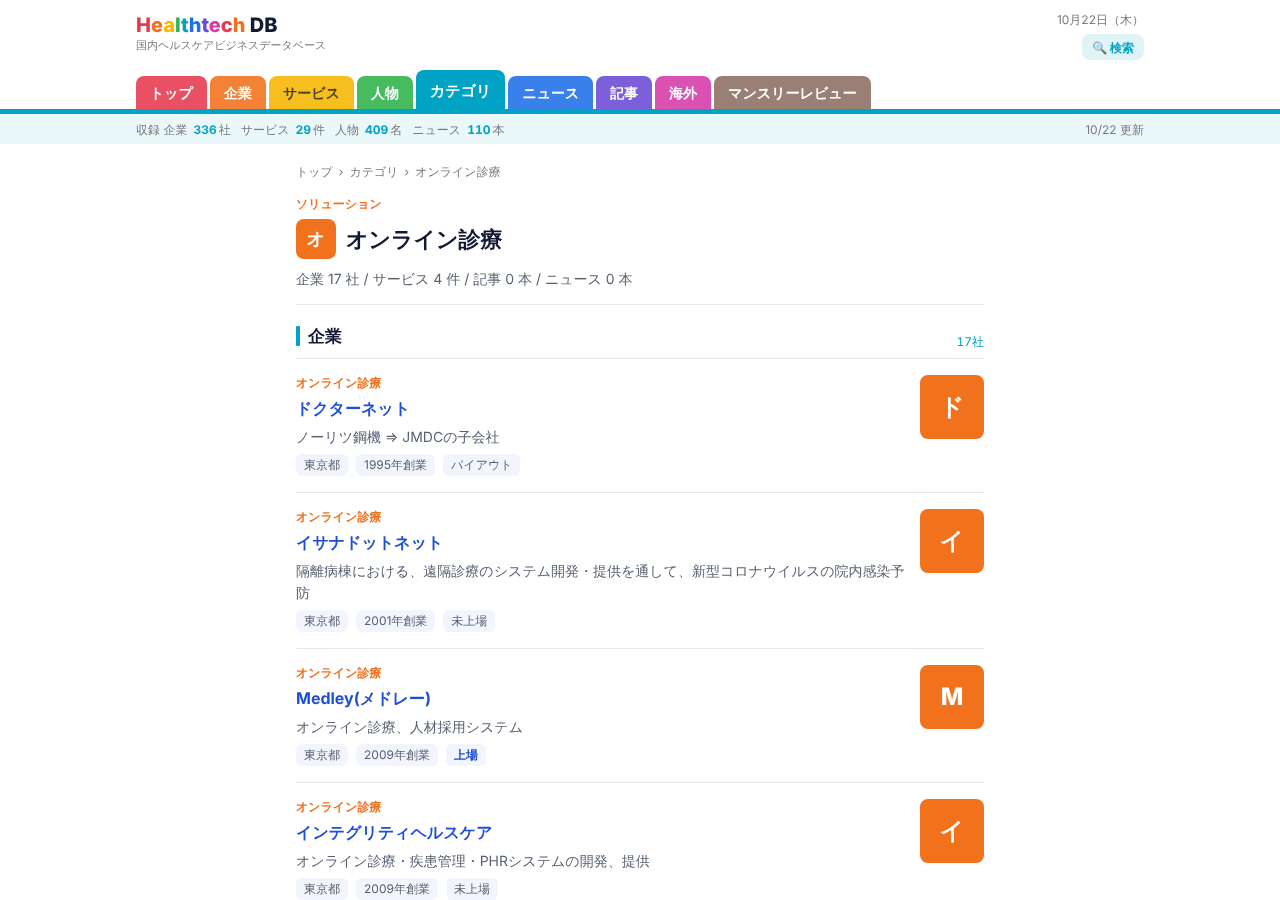
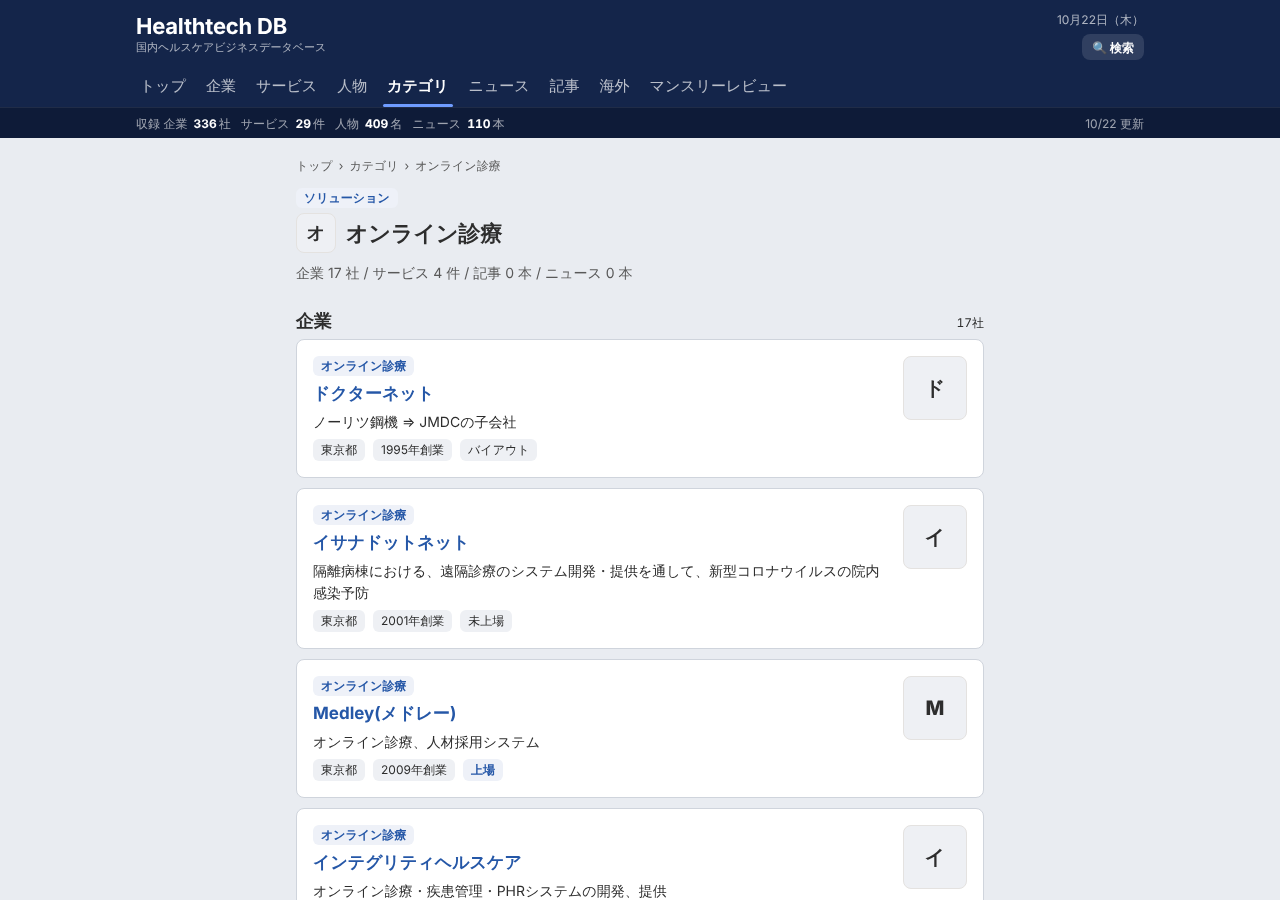
配色を STARTUP DB / Indeed 型に変更（紺のヘッダー、グレーの地、白カード、青1色）
Claude-Session: https://claude.ai/code/session_0119Ai9hj5RXsdgrEx7y6FYW

diff --git a/src/app/globals.css b/src/app/globals.css
@@ -13,9 +13,9 @@
   --disease: #d4357a;
   --solution: #1e4fd8;
   --domain: #17a2a2;
-  --page: #E8384F;
+  --page: #2557a7;
   --page-ink: #ffffff;
-  --page-text: #E8384F;
+  --page-text: #2557a7;
   --max: 1040px;
   --narrow: 720px;
 }
@@ -229,23 +229,113 @@ main.container { padding-top: 20px; padding-bottom: 64px; }
   .brand-name { font-size: 18px; line-height: 24px; }
 }
 
-/* ---------- スマートニュース風のカラータブ ---------- */
-.tabs { display: none; }
-.ctabs { margin-top: 10px; }
-.ctabs-in { display: flex; gap: 3px; overflow-x: auto; scrollbar-width: none; align-items: flex-end; }
-.ctabs-in::-webkit-scrollbar { display: none; }
-.ctab { flex: none; padding: 7px 14px 6px; border-radius: 8px 8px 0 0; background: var(--c); color: var(--ci); font-size: 14px; line-height: 20px; font-weight: 700; white-space: nowrap; opacity: 0.88; }
-.ctab:hover { text-decoration: none; opacity: 1; }
-.ctab[aria-current='page'] { opacity: 1; padding-top: 11px; padding-bottom: 8px; font-size: 15px; box-shadow: none; }
-.cband { height: 5px; background: var(--page); }
-.site-header { border-bottom: 0; }
-.search-pill { background: color-mix(in srgb, var(--page) 12%, var(--bg)); color: var(--page-text); }
-.brand-name { font-weight: 800; letter-spacing: 0; }
-.btn.primary { background: var(--page); border-color: var(--page); color: var(--page-ink); }
-.btn.primary:hover { filter: brightness(0.94); background: var(--page); border-color: var(--page); }
-.link-line::before { background: var(--page); }
-.stat b, .count-text b, .ticker-in b, .section-head .count { color: var(--page-text); }
-@media (max-width: 760px) {
-  .ctab { padding: 6px 11px 5px; font-size: 13px; }
-  .ctab[aria-current='page'] { padding-top: 9px; padding-bottom: 7px; font-size: 14px; }
+/* =====================================================================
+   STARTUP DB / Indeed 型（2026-10-22〜）。医師ビジネスマッチング MVP と同じトークン。
+   白いヘッダー、薄いグレーの地、白・1px枠・角丸8のカード、青1色、影はホバー時のみ。
+   ===================================================================== */
+:root {
+  --bg: #f5f6f8; --card: #ffffff; --surface: #f3f2f1; --fg: #2d2d2d; --muted: #595959; --muted-2: #595959;
+  --line: #d4d2d0; --line-2: #e4e2e0;
+  --brand: #2557a7; --brand-dark: #164081; --brand-fg: #ffffff; --brand-soft: #eef1f8;
+  --accent: var(--brand); --accent-ink: var(--brand-fg); --accent-hover: var(--brand-dark); --up: var(--brand);
+  --page: var(--brand); --page-ink: var(--brand-fg); --page-text: var(--brand);
+  --shadow-hover: 0 2px 8px rgba(45, 45, 45, 0.12);
 }
+@media (prefers-color-scheme: dark) {
+  :root:not([data-theme='light']) {
+    --bg: #1b1b1b; --card: #242424; --surface: #2e2e2e; --fg: #ededed; --muted: #a8a8a8; --muted-2: #a8a8a8;
+    --line: #444444; --line-2: #383838;
+    --brand: #8ab0f0; --brand-dark: #a9c5f5; --brand-fg: #101828; --brand-soft: #243245;
+    --shadow-hover: 0 2px 8px rgba(0, 0, 0, 0.5);
+  }
+}
+:root[data-theme='dark'] {
+  --bg: #1b1b1b; --card: #242424; --surface: #2e2e2e; --fg: #ededed; --muted: #a8a8a8; --muted-2: #a8a8a8;
+  --line: #444444; --line-2: #383838;
+  --brand: #8ab0f0; --brand-dark: #a9c5f5; --brand-fg: #101828; --brand-soft: #243245;
+  --shadow-hover: 0 2px 8px rgba(0, 0, 0, 0.5);
+}
+body { font-size: 15px; }
+/* ヘッダー: 白・下線のみ。ブランド名は青太字 */
+.site-header { background: var(--card); border-bottom: 1px solid var(--line); }
+.brand-name { color: var(--brand); font-size: 22px; line-height: 28px; font-weight: 700; letter-spacing: -0.01em; }
+.tab[aria-current='page'] { color: var(--brand); }
+.tab[aria-current='page']::after { background: var(--brand); }
+.ticker { background: var(--surface); border-top: 1px solid var(--line-2); }
+.ticker-in b { color: var(--fg); }
+.search-pill { background: var(--brand-soft); color: var(--brand); }
+/* 見出し: 縦棒をやめ、文字だけ（Indeed 型） */
+.section-head h2 { font-size: 18px; }
+.section-head h2::before { display: none; }
+.section-head .count, .count-text b, .stat b { color: var(--fg); }
+.page-head { border-bottom: 0; padding-bottom: 6px; }
+.page-head .kicker { background: none; color: var(--muted); padding: 0; font-weight: 500; }
+/* 一覧: 白・1px枠・角丸8のカード、間隔10px */
+.rows, .rows.bare { border-top: 0; display: flex; flex-direction: column; gap: 10px; }
+.item, .feature { background: var(--card); border: 1px solid var(--line); border-radius: 8px; padding: 16px; transition: box-shadow 0.15s, border-color 0.15s; }
+.item:hover, .feature:hover { box-shadow: var(--shadow-hover); border-color: var(--muted); }
+.feature { margin-bottom: 10px; }
+.item .title, .feature .title { color: var(--brand); font-size: 17px; }
+.item .title.ink, .feature .title { color: var(--brand); }
+.item .title:hover, .feature .title:hover { text-decoration: underline; }
+.item .desc { color: var(--fg); }
+.quote { border-left-color: var(--line); }
+/* 分類ラベル: 薄い青地の小タグ */
+.label { background: var(--brand-soft); color: var(--brand) !important; padding: 2px 8px; border-radius: 6px; font-weight: 700; }
+.tag { background: var(--surface); color: var(--fg); border-radius: 6px; font-size: 12px; }
+.tag.listed { background: var(--brand-soft); color: var(--brand); }
+/* 頭文字タイル: グレーの四角（ロゴ枠） */
+.tile { background: var(--surface) !important; color: var(--fg) !important; border: 1px solid var(--line-2); border-radius: 8px; font-size: 20px; }
+.tile.wide { color: var(--muted) !important; }
+/* 検索・入力 */
+.searchbar .in, .filterbar input, .filterbar select { background: var(--card); border-color: var(--line); }
+.searchbar .in:focus-within { border-color: var(--brand); box-shadow: 0 0 0 2px var(--brand-soft); }
+.btn { background: var(--card); }
+.btn:hover { background: var(--surface); }
+.btn.primary { background: var(--brand); border-color: var(--brand); color: var(--brand-fg); }
+.btn.primary:hover { background: var(--brand-dark); border-color: var(--brand-dark); filter: none; }
+/* カテゴリ・詳細の箱 */
+.cat-cols { background: var(--card); border: 1px solid var(--line); border-radius: 8px; padding: 4px 16px 8px; }
+.cat-link { color: var(--brand); border-bottom-color: var(--line-2); }
+.cat-link::before { display: none; }
+.side-box { background: var(--card); }
+.notice { background: var(--brand-soft); color: var(--fg); }
+.link-line { border-bottom: 0; }
+.link-line::before { background: var(--brand); }
+.people { background: var(--card); border: 1px solid var(--line); border-radius: 8px; padding: 0 16px; border-top: 1px solid var(--line); }
+.prose { background: var(--card); border: 1px solid var(--line); border-radius: 8px; padding: 24px; margin-top: 12px; }
+.prose h2::before { display: none; }
+.prose blockquote { border-left-color: var(--line); }
+.site-footer { background: var(--card); }
+.tabbar { background: var(--card); }
+.tabbar a[aria-current='page'] { color: var(--brand); }
+@media (max-width: 560px) { .prose { padding: 16px; } }
+
+/* 「明るすぎる」への対応: STARTUP DB のような紺のヘッダーと、少し沈んだ地 */
+:root {
+  --navy: #14254a;
+  --navy-2: #0e1b38;
+  --bg: #e9ecf1;
+  --line: #cfd4dc;
+  --surface: #eef0f4;
+}
+@media (prefers-color-scheme: dark) {
+  :root:not([data-theme='light']) { --navy: #0f1a33; --navy-2: #0a1226; --bg: #15171b; --surface: #2a2d33; --line: #3a3f48; }
+}
+:root[data-theme='dark'] { --navy: #0f1a33; --navy-2: #0a1226; --bg: #15171b; --surface: #2a2d33; --line: #3a3f48; }
+.site-header { background: var(--navy); border-bottom: 0; }
+.brand-name { color: #ffffff; }
+.brand-sub, .mast-date { color: rgba(255, 255, 255, 0.65); }
+.search-pill { background: rgba(255, 255, 255, 0.12); color: #ffffff; }
+.search-pill:hover { background: rgba(255, 255, 255, 0.2); }
+.tab { color: rgba(255, 255, 255, 0.7); }
+.tab:hover { color: #ffffff; }
+.tab[aria-current='page'] { color: #ffffff; }
+.tab[aria-current='page']::after { background: #6f9cff; }
+.ticker { background: var(--navy-2); border-top: 1px solid rgba(255, 255, 255, 0.08); }
+.ticker-in, .ticker-in span { color: rgba(255, 255, 255, 0.6); }
+.ticker-in b { color: #ffffff; }
+.site-footer { background: var(--navy); color: rgba(255, 255, 255, 0.6); border-top: 0; }
+.site-footer h4 { color: #ffffff; }
+.site-footer a:hover { color: #ffffff; }
+.tile.wide { aspect-ratio: 5 / 1; }

diff --git a/src/components/Header.tsx b/src/components/Header.tsx
@@ -2,7 +2,7 @@
 import Link from 'next/link';
 import { usePathname } from 'next/navigation';
 import { BASE_PATH } from '@/lib/base';
-import { SEARCH_COLOR, TABS, tabFor } from '@/lib/colors';
+import { TABS, tabFor } from '@/lib/colors';
 
 const WD = ['日', '月', '火', '水', '木', '金', '土'];
 
@@ -18,20 +18,16 @@ export function useActive() {
 export function Header({ stats, updated }: { stats: { companies: number; services: number; people: number; news: number }; updated: string }) {
   const path = useCurrentPath();
   const active = tabFor(path);
-  const page = active ?? SEARCH_COLOR;
   const d = new Date(updated || Date.now());
   const today = `${d.getMonth() + 1}月${d.getDate()}日（${WD[d.getDay()]}）`;
   return (
     <>
-      {/* 選択中のタブの色をページ全体（見出しの縦棒など）に渡す */}
-      <style>{`:root{--page:${page.color};--page-ink:${page.ink};--page-text:${page.color === '#F5B700' ? '#A87400' : page.color}}`}</style>
+      
       <header className="site-header">
         <div className="container">
           <div className="masthead">
             <Link href="/" className="brand" aria-label="Healthtech DB トップ">
-              <span className="brand-name">
-                <span style={{ color: '#E8384F' }}>H</span><span style={{ color: '#F2711C' }}>e</span><span style={{ color: '#F5B700' }}>a</span><span style={{ color: '#2DB34A' }}>l</span><span style={{ color: '#00A3C4' }}>t</span><span style={{ color: '#1E6FE8' }}>h</span><span style={{ color: '#6C4AD8' }}>t</span><span style={{ color: '#D63AA8' }}>e</span><span style={{ color: '#E8384F' }}>c</span><span style={{ color: '#F2711C' }}>h</span> DB
-              </span>
+              <span className="brand-name">Healthtech DB</span>
               <span className="brand-sub">国内ヘルスケアビジネスデータベース</span>
             </Link>
             <div className="mast-right">
@@ -40,22 +36,15 @@ export function Header({ stats, updated }: { stats: { companies: number; service
             </div>
           </div>
         </div>
-        <nav className="ctabs" aria-label="メイン">
-          <div className="container ctabs-in">
+        <div className="container">
+          <nav className="tabs" aria-label="メイン">
             {TABS.map((t) => (
-              <Link
-                key={t.href}
-                href={t.href}
-                className="ctab"
-                aria-current={active?.href === t.href ? 'page' : undefined}
-                style={{ ['--c' as string]: t.color, ['--ci' as string]: t.ink }}
-              >
+              <Link key={t.href} href={t.href} className="tab" aria-current={active?.href === t.href ? 'page' : undefined}>
                 {t.label}
               </Link>
             ))}
-          </div>
-        </nav>
-        <div className="cband" />
+          </nav>
+        </div>
         <div className="ticker">
           <div className="container ticker-in">
             <span>

diff --git a/src/lib/colors.ts b/src/lib/colors.ts
@@ -1,31 +1,30 @@
 /**
- * スマートニュース風のカラフルな配色。
- * タブ（ページ）ごとに色を持ち、選択中のタブ色がタブ下の帯・セクション見出しの縦棒に出る。
- * カテゴリにも 1 つずつ色を割り当て、ラベルの文字色とタイルの塗りに使う。
+ * 配色: STARTUP DB / Indeed 型。基調色は青1色（Indeed ブルー #2557A7）。
+ * タブ・カテゴリに個別の色は持たせない（2026-10-22 加藤さんの依頼でカラフル配色から変更）。
+ * 色の実体は globals.css の CSS 変数（--brand 等）。ここでは変数名を返す。
  */
 export type TabDef = { href: string; label: string; color: string; ink: string };
 
+const B = 'var(--brand)';
+const BI = 'var(--brand-fg)';
+
 export const TABS: TabDef[] = [
-  { href: '/', label: 'トップ', color: '#E8384F', ink: '#FFFFFF' },
-  { href: '/companies/', label: '企業', color: '#F2711C', ink: '#FFFFFF' },
-  { href: '/services/', label: 'サービス', color: '#F5B700', ink: '#3A2A00' },
-  { href: '/talents/', label: '人物', color: '#2DB34A', ink: '#FFFFFF' },
-  { href: '/categories/', label: 'カテゴリ', color: '#00A3C4', ink: '#FFFFFF' },
-  { href: '/news/', label: 'ニュース', color: '#1E6FE8', ink: '#FFFFFF' },
-  { href: '/articles/', label: '記事', color: '#6C4AD8', ink: '#FFFFFF' },
-  { href: '/global/', label: '海外', color: '#D63AA8', ink: '#FFFFFF' },
-  { href: '/webinars/', label: 'マンスリーレビュー', color: '#8D6E63', ink: '#FFFFFF' },
+  { href: '/', label: 'トップ', color: B, ink: BI },
+  { href: '/companies/', label: '企業', color: B, ink: BI },
+  { href: '/services/', label: 'サービス', color: B, ink: BI },
+  { href: '/talents/', label: '人物', color: B, ink: BI },
+  { href: '/categories/', label: 'カテゴリ', color: B, ink: BI },
+  { href: '/news/', label: 'ニュース', color: B, ink: BI },
+  { href: '/articles/', label: '記事', color: B, ink: BI },
+  { href: '/global/', label: '海外', color: B, ink: BI },
+  { href: '/webinars/', label: 'マンスリーレビュー', color: B, ink: BI },
 ];
 
-/** 検索など、タブに無いページの色 */
-export const SEARCH_COLOR = { color: '#1E6FE8', ink: '#FFFFFF' };
+export const SEARCH_COLOR = { color: B, ink: BI };
 
 export function tabFor(path: string): TabDef | undefined {
   return [...TABS].sort((a, b) => b.href.length - a.href.length).find((t) => (t.href === '/' ? path === '/' : path.startsWith(t.href)));
 }
 
-/** カテゴリ用の 14 色（白文字が読める濃さ） */
-export const CATEGORY_PALETTE = [
-  '#E8384F', '#F2711C', '#D99A00', '#2DB34A', '#00A3C4', '#1E6FE8', '#6C4AD8',
-  '#D63AA8', '#0F9D8A', '#C2410C', '#4F7CFF', '#9C27B0', '#7CB342', '#E91E63',
-];
+/** カテゴリ色。青1色に統一 */
+export const CATEGORY_PALETTE = [B];

diff --git a/src/components/CompanyFilter.tsx b/src/components/CompanyFilter.tsx
@@ -47,12 +47,11 @@ export function CompanyFilter({ companies, categories, initialCategory = '' }: {
       <p className="count-text" style={{ margin: '0 0 4px' }}><b>{hit.length}</b> 社が該当</p>
       <div className="rows">
         {hit.slice(0, shown).map((c) => {
-          const color = catOf[c.categories[0]]?.color ?? '#1E6FE8';
-          return (
+                    return (
             <article className="item" key={c.id}>
               <div className="body">
                 <span className="labels">
-                  {c.categories.map((s) => <Link key={s} href={`/categories/${s}/`} className="label" style={{ color: catOf[s]?.color }}>{catOf[s]?.name ?? s}</Link>)}
+                  {c.categories.map((s) => <Link key={s} href={`/categories/${s}/`} className="label">{catOf[s]?.name ?? s}</Link>)}
                 </span>
                 <Link href={`/companies/${c.id}/`} className="title">{c.name}</Link>
                 {c.description && <p className="desc">{c.description}</p>}
@@ -62,7 +61,7 @@ export function CompanyFilter({ companies, categories, initialCategory = '' }: {
                   <span className={`tag ${c.exit === '上場' ? 'listed' : ''}`}>{c.exit}</span>
                 </div>
               </div>
-              <span className="tile" style={{ background: color }} aria-hidden="true">{initialOf(c.name)}</span>
+              <span className="tile" aria-hidden="true">{initialOf(c.name)}</span>
             </article>
           );
         })}

diff --git a/src/components/TabBar.tsx b/src/components/TabBar.tsx
@@ -1,7 +1,6 @@
 'use client';
 import Link from 'next/link';
 import { useActive } from './Header';
-import { TABS } from '@/lib/colors';
 
 const I = {
   home: <path d="M3 11 12 3l9 8v10a1 1 0 0 1-1 1h-5v-7H9v7H4a1 1 0 0 1-1-1z" />,
@@ -9,7 +8,6 @@ const I = {
   search: (<><circle cx="11" cy="11" r="7" /><path d="m20 20-3.5-3.5" /></>),
   news: <path d="M4 5h13v14H6a2 2 0 0 1-2-2zM17 9h3v8a2 2 0 0 1-2 2M8 9h5M8 13h5" />,
 };
-const colorOf = (href: string) => TABS.find((t) => t.href === href)?.color ?? '#1E6FE8';
 
 export function TabBar() {
   const isActive = useActive();
@@ -19,7 +17,7 @@ export function TabBar() {
       {items.map(([href, label, icon]) => {
         const on = href === '/search/' ? false : isActive(href);
         return (
-          <Link key={href} href={href} aria-current={on ? 'page' : undefined} style={on ? { color: colorOf(href) } : undefined}>
+          <Link key={href} href={href} aria-current={on ? 'page' : undefined} >
             <svg viewBox="0 0 24 24" fill="none" stroke="currentColor" strokeWidth="1.8" strokeLinecap="round" strokeLinejoin="round" aria-hidden="true">{I[icon]}</svg>
             {label}
           </Link>

diff --git a/src/app/categories/[slug]/page.tsx b/src/app/categories/[slug]/page.tsx
@@ -26,8 +26,8 @@ export default async function CategoryPage({ params }: { params: Promise<{ slug:
     <div className="narrow">
       <nav className="breadcrumb" aria-label="パンくず"><Link href="/">トップ</Link>›<Link href="/categories/">カテゴリ</Link>›<span>{c.name}</span></nav>
       <div className="page-head">
-        <span className="label" style={{ color: c.color }}>{c.groupLabel}</span>
-        <h1 style={{ display: 'flex', alignItems: 'center', gap: 10 }}><span className="tile" style={{ background: c.color, width: 40, height: 40, fontSize: 18 }} aria-hidden="true">{c.name.slice(0, 1)}</span>{c.name}</h1>
+        <span className="label">{c.groupLabel}</span>
+        <h1 style={{ display: 'flex', alignItems: 'center', gap: 10 }}><span className="tile" style={{ width: 40, height: 40, fontSize: 18 }} aria-hidden="true">{c.name.slice(0, 1)}</span>{c.name}</h1>
         <p className="lead">企業 {companies.length} 社 / サービス {services.length} 件 / 記事 {articles.length} 本 / ニュース {news.length} 本</p>
       </div>
       {articles.length > 0 && (

diff --git a/src/app/companies/[id]/page.tsx b/src/app/companies/[id]/page.tsx
@@ -83,7 +83,7 @@ export default async function CompanyPage({ params }: { params: Promise<{ id: st
                 {services.map((s) => (
                   <article className="item" key={s.id}>
                     <div className="body">
-                      <Link href={`/categories/${s.category}/`} className="label" style={{ color: getCategory(s.category)?.color }}>{categoryName(s.category)}</Link>
+                      <Link href={`/categories/${s.category}/`} className="label">{categoryName(s.category)}</Link>
                       <Link href={`/services/${s.id}/`} className="title">{s.name}</Link>
                       <p className="desc">{s.description}</p>
                       <div className="meta">{s.startedYear && <span className="tag">{s.startedYear}年開始</span>}<span className="tag">{s.status}</span></div>

diff --git a/src/components/Tile.tsx b/src/components/Tile.tsx
@@ -1,7 +1,7 @@
-/** ロゴ・画像が無いときの代替タイル。分類色で塗り、白文字で頭文字や分類名を出す */
-export function Tile({ text, color = '#1E6FE8', size = 'md', kicker }: { text: string; color?: string; size?: 'md' | 'lg' | 'wide'; kicker?: string }) {
+/** ロゴが無いときの代替タイル（Indeed の企業ロゴ枠のようなグレーの四角に頭文字） */
+export function Tile({ text, size = 'md', kicker }: { text: string; color?: string; size?: 'md' | 'lg' | 'wide'; kicker?: string }) {
   return (
-    <span className={`tile ${size === 'md' ? '' : size}`} style={{ background: color }} aria-hidden="true">
+    <span className={`tile ${size === 'md' ? '' : size}`} aria-hidden="true">
       {kicker && <small>{kicker}</small>}
       {text}
     </span>

diff --git a/src/app/talents/[id]/page.tsx b/src/app/talents/[id]/page.tsx
@@ -23,7 +23,7 @@ export default async function TalentPage({ params }: { params: Promise<{ id: str
     <div className="narrow">
       <nav className="breadcrumb" aria-label="パンくず"><Link href="/">トップ</Link>›<Link href="/talents/">人物</Link>›<span>{p.name}</span></nav>
       <div className="page-head" style={{ display: 'flex', gap: 16, alignItems: 'center' }}>
-        <span className="tile" style={{ borderRadius: '50%', background: '#2DB34A' }} aria-hidden="true">{p.name.slice(0, 1)}</span>
+        <span className="tile" style={{ borderRadius: '50%' }} aria-hidden="true">{p.name.slice(0, 1)}</span>
         <div>
           <h1>{p.name}</h1>
           <p className="lead" style={{ marginTop: 2 }}>{p.roles.map((r) => `${r.companyName} ${r.title}`).join(' / ')}</p>

diff --git a/src/app/services/[id]/page.tsx b/src/app/services/[id]/page.tsx
@@ -22,7 +22,7 @@ export default async function ServicePage({ params }: { params: Promise<{ id: st
     <>
       <nav className="breadcrumb" aria-label="パンくず"><Link href="/">トップ</Link>›<Link href="/services/">サービス</Link>›<span>{s.name}</span></nav>
       <div className="page-head">
-        <Link href={`/categories/${s.category}/`} className="label" style={{ color: getCategory(s.category)?.color }}>{categoryName(s.category)}</Link>
+        <Link href={`/categories/${s.category}/`} className="label">{categoryName(s.category)}</Link>
         <h1>{s.name}</h1>
         <p className="lead">{s.description}</p>
       </div>

diff --git a/src/app/services/page.tsx b/src/app/services/page.tsx
@@ -18,7 +18,7 @@ export default function ServicesPage() {
         {services.map((s) => (
           <article className="item" key={s.id}>
             <div className="body">
-              <Link href={`/categories/${s.category}/`} className="label" style={{ color: getCategory(s.category)?.color }}>{categoryName(s.category)}</Link>
+              <Link href={`/categories/${s.category}/`} className="label">{categoryName(s.category)}</Link>
               <Link href={`/services/${s.id}/`} className="title">{s.name}</Link>
               <p className="desc">{s.description}</p>
               <div className="meta">

diff --git a/src/app/categories/page.tsx b/src/app/categories/page.tsx
@@ -23,7 +23,7 @@ export default function CategoriesPage() {
               const nC = companies.filter((x) => x.categories.includes(c.slug)).length;
               const nS = services.filter((x) => x.category === c.slug).length;
               return (
-                <Link key={c.slug} href={`/categories/${c.slug}/`} className="cat-link" style={{ color: c.color }}>
+                <Link key={c.slug} href={`/categories/${c.slug}/`} className="cat-link">
                   {c.name}<span className="n">企業 {nC} ・ サービス {nS}</span>
                 </Link>
               );
